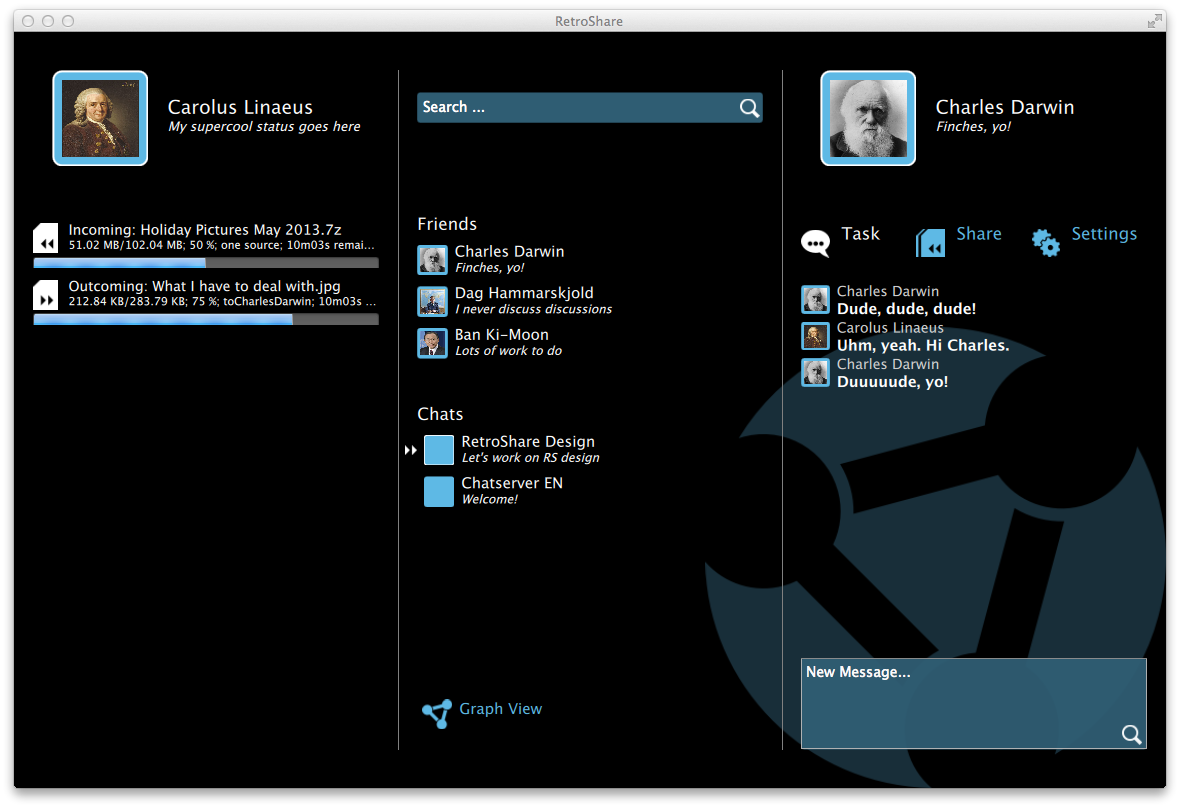
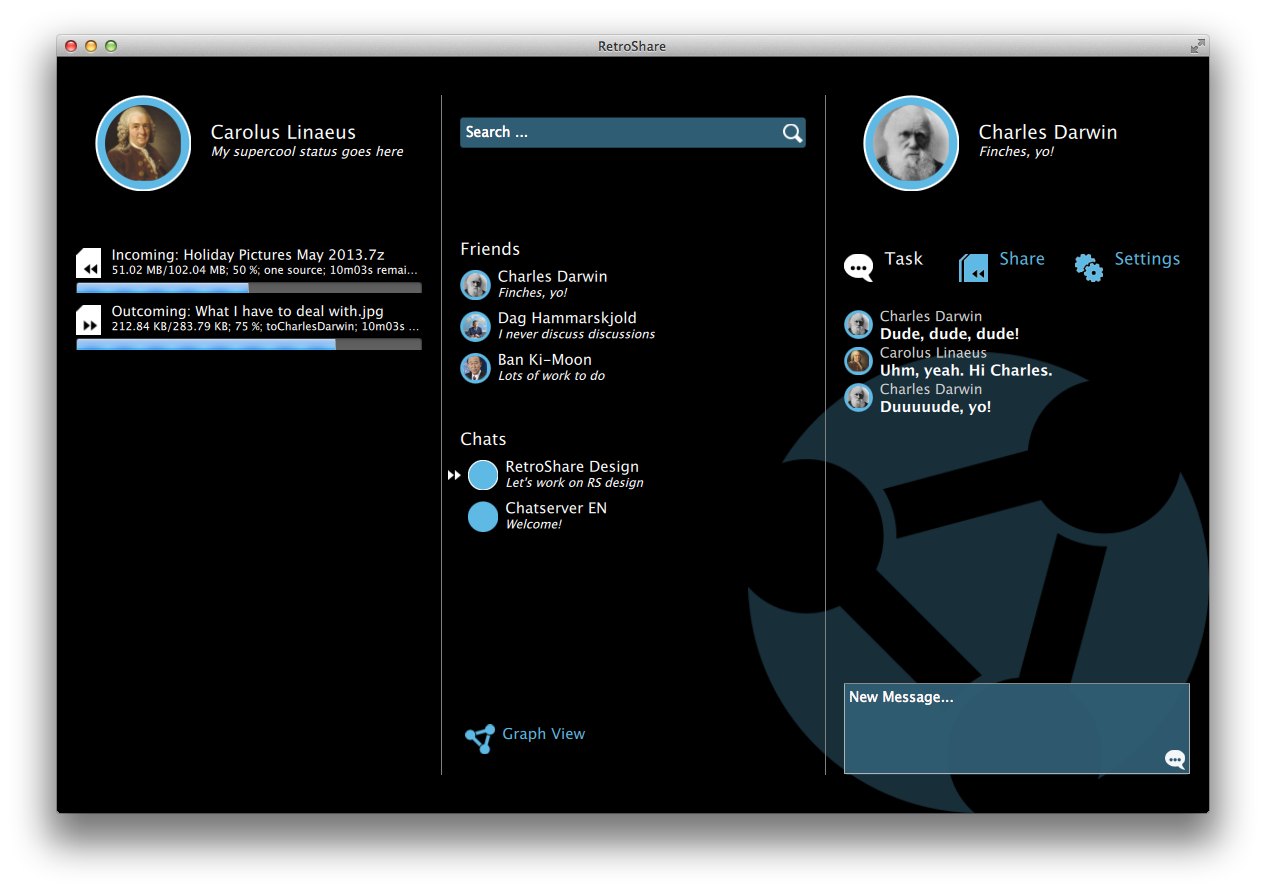
upd screenshot and readme

diff --git a/README.md b/README.md
@@ -10,6 +10,6 @@ The GUI has been created in Qt 5.3.1.
 Current issues:
 - not all icons for tabs are available (both selected and unselected tab icons need to be
 provided)
-- icon for chat field is missing
+- need to add horizontal scroll for the 3 columns in order to adapt to different
+  screen widths. Also, some columns should be hidden, depending on user prefs
 - Share and Settings tabs need to be defined
-- unsure about the usefullness of the first column
